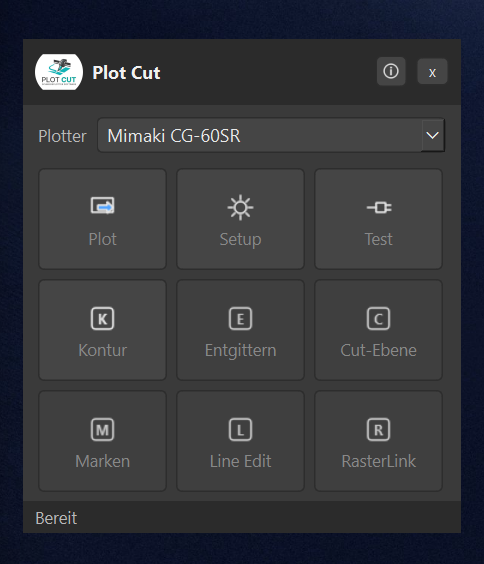
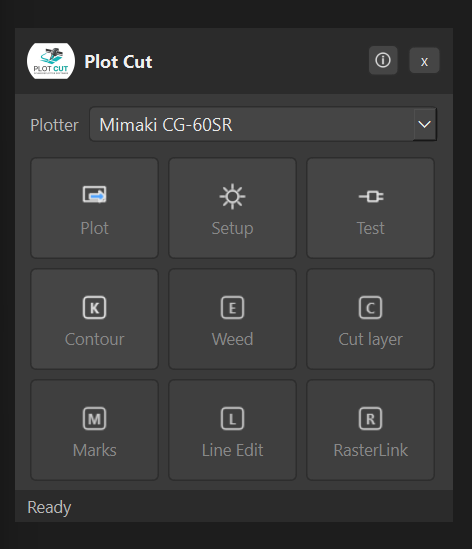
Describe every window in English and refresh the screenshots.
The README now matches the English labels and shows the panel, Setup, and Plot window.

diff --git a/README.md b/README.md
@@ -30,9 +30,9 @@ The Loki HTTP job API (`POST /api/plotcut/devices/{id}/job`) is still available 
 
 ## Requirements
 
-- Windows 10/11
+- Windows 10/11 for Mimaki USB and the Vevor COM port. The macOS and Linux builds run the panel; those two connections are the Windows setup below.
 - [VectorCraft](https://getartcraft.com/apps/vectorcraft) (desktop)
-- For a Mimaki or Vevor on the Pi: Loki client on this PC, cutter attached
+- For a Mimaki or Vevor on the Pi: Loki client on this PC, cutter attached. A cutter plugged straight into this PC uses the same Setup entries, with an empty Mimaki device path or COM port `auto`.
 - Python 3.12 only if you run from source (PySide6 does not support 3.14 yet)
 
 ## Getting started
@@ -52,10 +52,11 @@ run.bat
 1. Start VectorCraft with the control channel: `start-vectorcraft.bat`  
    (or Plot Cut offers to launch it with `--control 7979` on the first plot)
 2. Choose the plotter in the panel (Mimaki CG-60SR / Vevor)
-3. Select the cut paths in VectorCraft
-4. **Plot** → place the job on the sheet → **Schneiden...** → **Schneiden**
+3. Select the artwork in VectorCraft
+4. If the artwork is text, or it has a stroke that should become the cut line, click **Contour** first
+5. **Plot** → place the job on the sheet → **Cut...** → **Cut**
 
-Panel shortcut: `Ctrl+Alt+P`.
+`Ctrl+Alt+P` starts **Plot** while the panel has focus. Closing the panel leaves Plot Cut in the tray. The tray menu can show the panel, start **Plot**, open **Setup**, test the connection, or quit.
 
 Build the standalone program:
 
@@ -69,17 +70,74 @@ Publishing a GitHub release builds the programs and attaches them to that releas
 
 ## What the windows do
 
-<img src="assets/panel.png" alt="Plot Cut panel" width="260">
-<img src="assets/plot.png" alt="Plot window" width="640">
+<p align="center">
+  <img src="assets/panel.png" alt="Plot Cut panel" width="240">
+  &nbsp;&nbsp;
+  <img src="assets/setup.png" alt="Setup" width="320">
+</p>
 
+The panel stays above VectorCraft. The plotter menu at the top switches the active profile. The status line under the tiles reports the last step.
 
-**Plot** (right-hand bar, FineCut layout): sheet size, offset, size and scale, copies on X and Y, frame, rotate, move, fit, mirror. The **Farbe** tab turns colors on or off.
+| Tile | What it does |
+|---|---|
+| **Plot** | Reads the selection and opens the sheet window. |
+| **Setup** | Language, VectorCraft, profiles, connection, and cut presets. |
+| **Test** | Checks the VectorCraft control channel and the cutter connection. |
+| **Contour** | Turns text into paths. A stroke that makes the art larger is replaced by its outer edge, and the hole in a letter stays. Nothing is sent to the cutter. Undo in VectorCraft restores the text. |
+| **Weed**, **Cut layer**, **Marks**, **Line Edit**, **RasterLink** | Shown on the panel. They do not run yet. |
 
-**Ausplotten**: plotter settings, a saved preset, or custom speed / pressure / offset (each can be left to the cutter). Options cover sort order, overcut, and parking the head. **Vorschau...** opens direction, order, travel moves, and the simulation.
+<p align="center">
+  <img src="assets/plot.png" alt="Plot window" width="780">
+</p>
+
+**Plot** places the job. On a Mimaki the origin is the bottom-right corner and the art stays readable. On a Vevor the origin is the bottom-left. **Preview** fills closed paths, so the counter of a letter stays open. **Cut line** shows only the paths that will be cut. The mouse wheel zooms, dragging pans, and a double-click fits the art or the whole sheet.
+
+| Control | What it does |
+|---|---|
+| **Initialize** | Resets this window. |
+| **Read sheet size** | Copies width and length from the plotter profile. It does not ask the cutter yet. |
+| **Cut...** | Opens **Output**. |
+| **Quit** | Closes the window without sending. |
+| Sheet size, offset, size, scale | Horizontal and vertical values. Scale stays linked until **Distort** is on. The total under the table turns red when the job is wider than the sheet. |
+| **Copy**, **Copy spacing** | A grid of copies, with a gap on X and Y. |
+| **Frame** | Cuts a rectangle around the art and moves the art in by that margin. |
+| **Rotate** | Turns the art 90 degrees. |
+| **Move** | Parks the art on one of nine places on the sheet. |
+| **Fit** | Scales the art onto the sheet, keeping the proportions. |
+| **Original layout** | Clears rotation, size, mirror, and position. |
+| **Mirror**, **Distort**, **Fix origin** | Mirror flips the art. Distort unlocks width and height. Fix origin keeps the art on the plotter origin and turns off Move and offset. |
+| **Color** | A checkmark includes that color. A cleared color is not cut. |
+| **Tile spacing**, **Registration marks**, register marks, **Layer** | Visible, and not active yet. |
+
+Placement for a document is remembered the next time that file is plotted.
+
+**Output** is the window after **Cut...**. It does not have its own picture here.
+
+| Control | What it does |
+|---|---|
+| **Plotter setting** | Sends no speed, pressure, or offset. The cutter keeps its own values. |
+| **Selection setting** | Uses a preset saved in Setup. |
+| **Custom** | Speed, pressure, and blade offset. Each value can be left to the cutter. |
+| **Cut condition per color** | A preset for that color, **Same as plot setting**, or **Do not cut**. |
+| **Sort** | **All** or **Each color**. **Inside before outside** cuts holes before the outline. |
+| **Overcut** | Extends a closed path past its start so the ends meet. |
+| **Park the head** | After the job, moves the head past the art by the given gap. |
+| **Preview...** | Direction arrows, order numbers, and yellow travel moves. Black is counter-clockwise, red is clockwise. **Simulation** plays the cut. |
+| **Save as file...** | Writes a `.plt` file and sends nothing. |
+| **Save Preset Setting** | Stores the current condition under a name. |
+| **Cut** | Sends the job. **Cancel** closes the window. |
 
 ## Setup / connection
 
 Open **Setup** from the panel.
+
+**Language** switches every label between German and English at once. Cancel restores the previous language. The plotter **command language** (MGL-IIc or HP-GL) stays separate.
+
+**VectorCraft (control channel)** sets `vectorcraft.exe` and the port. An empty path is searched automatically. The usual port is `7979`.
+
+**Plotter profile** can be created, renamed, and deleted. The two profiles that ship with Plot Cut are a starting point, not a fixed list. **Model**, **command language**, and **sheet width** belong to the selected profile.
+
+**Default cut condition** is the speed, pressure, and blade offset used when no other preset is chosen. **Favorites** stores named conditions. **Load** and **Save as...** edit that list. **Test connection** checks the link from this window.
 
 | Transport | Use when |
 |---|---|
